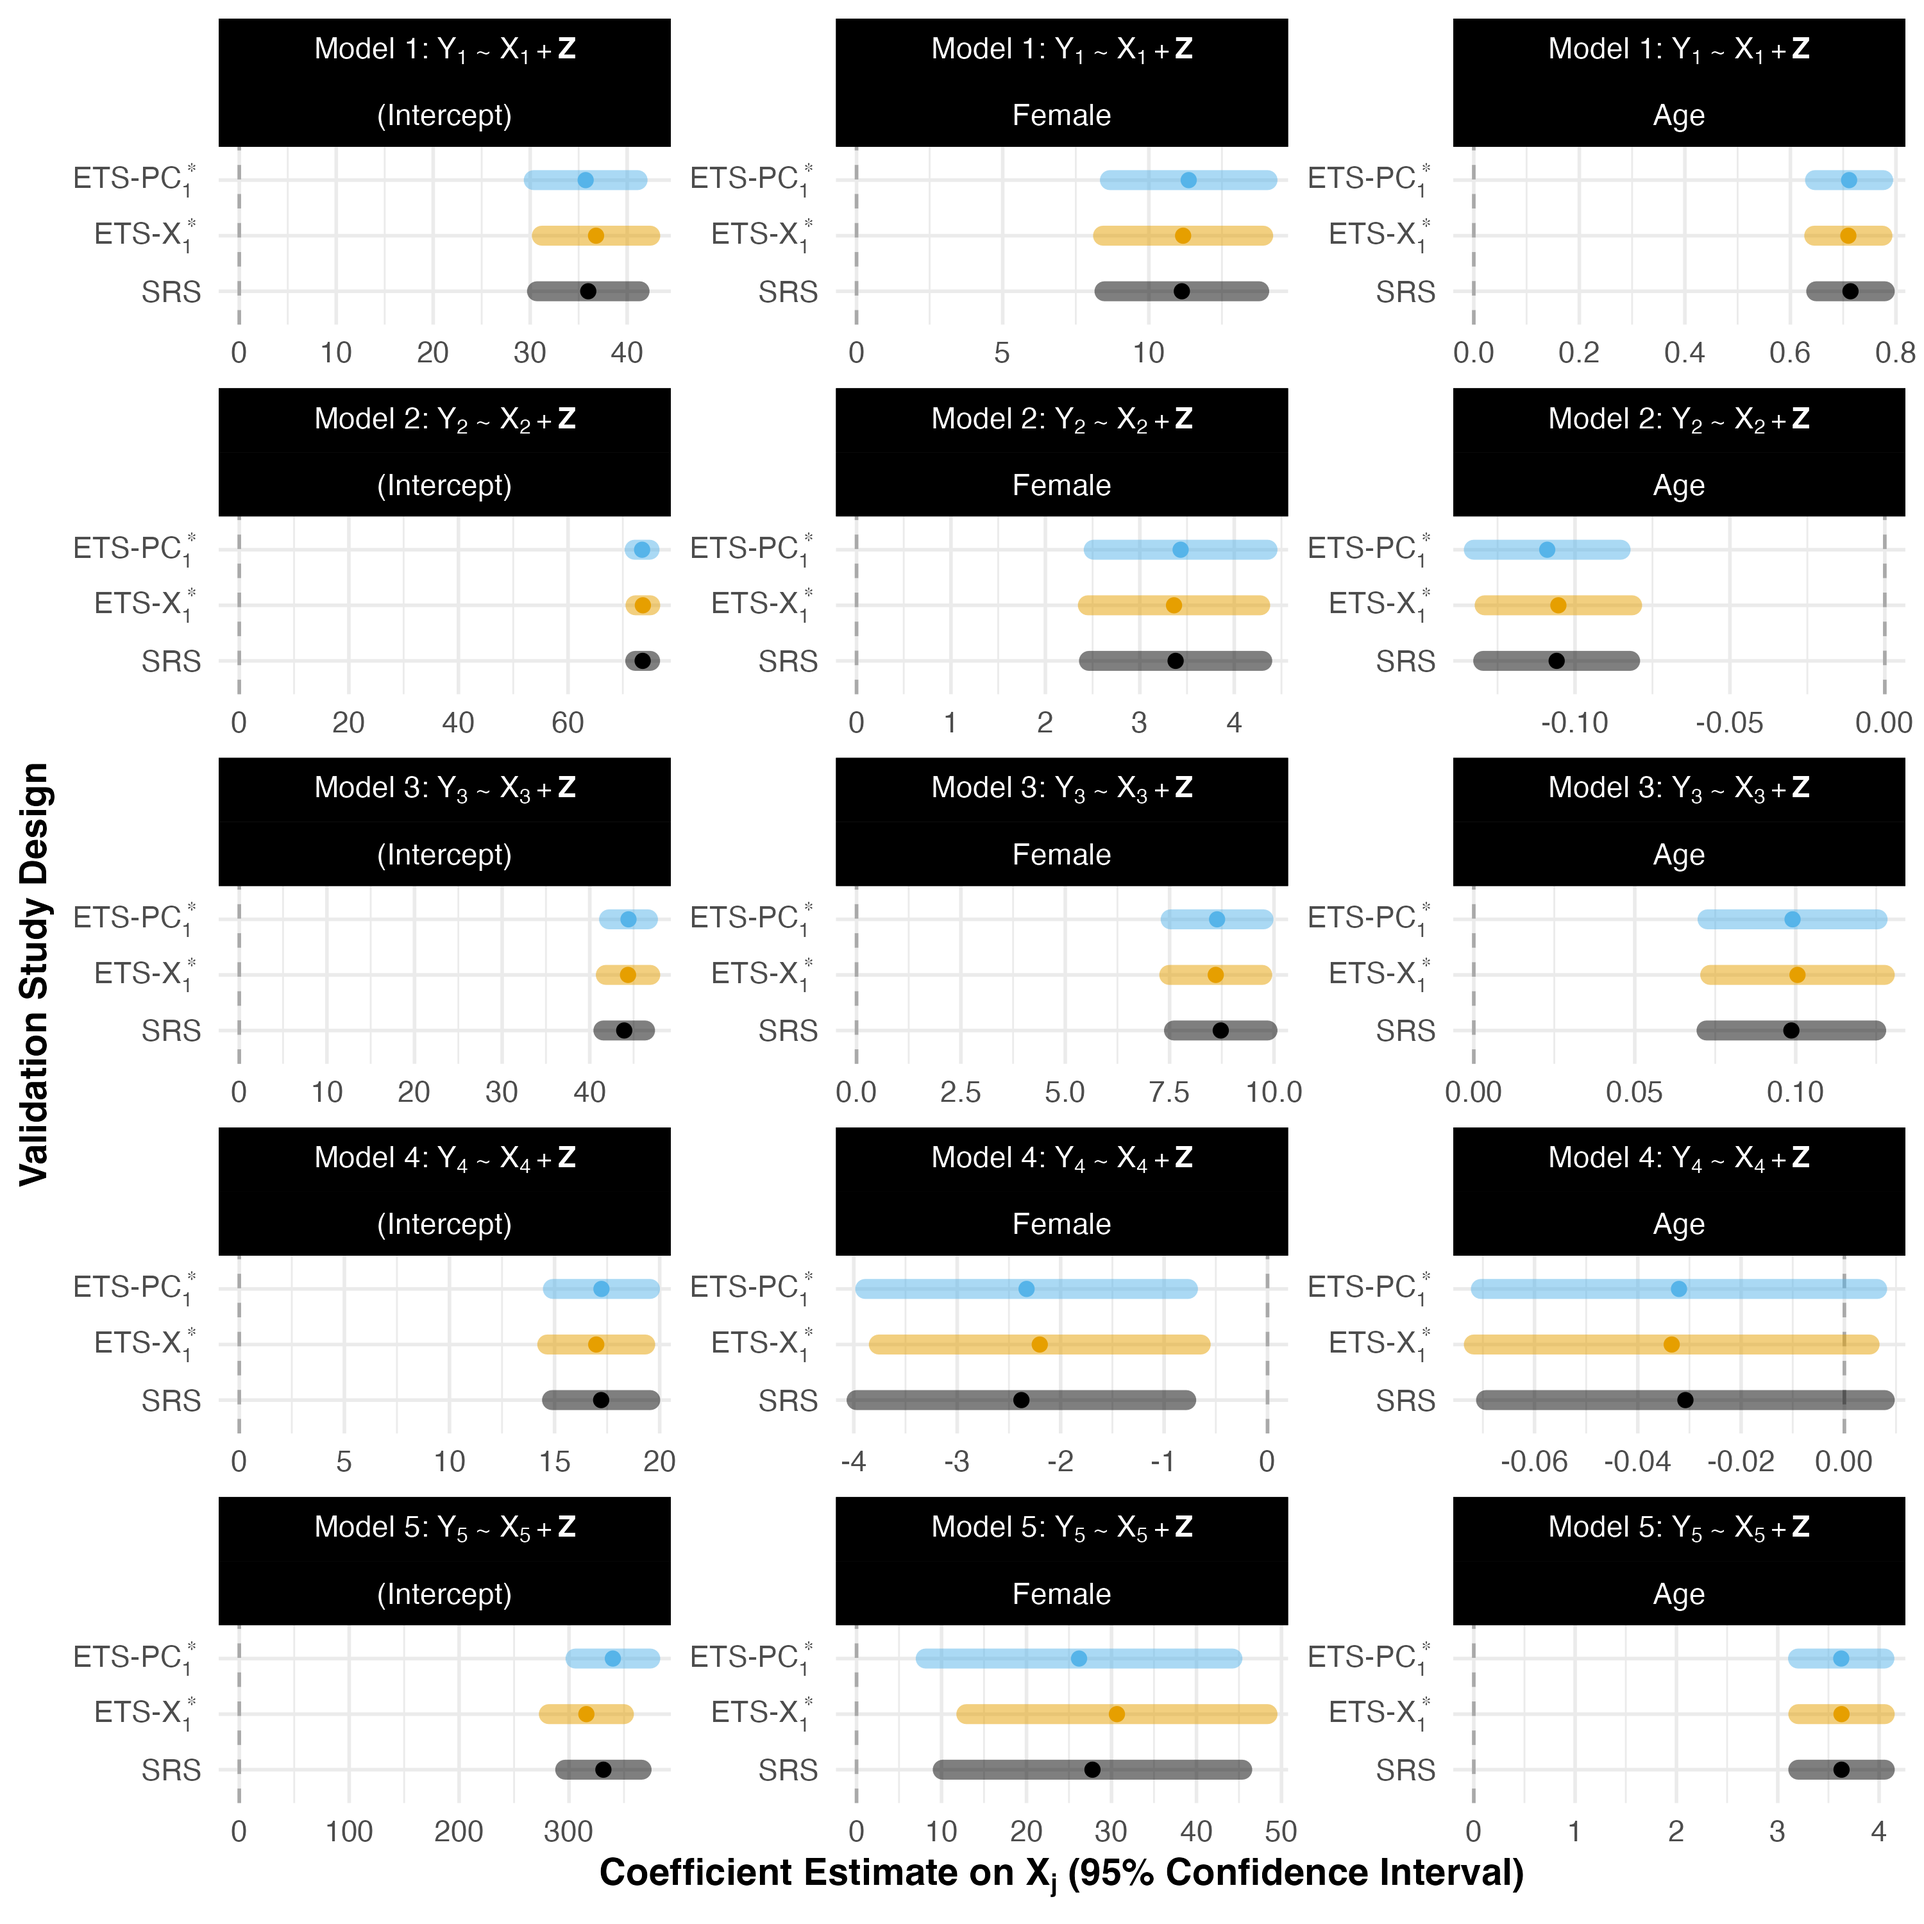
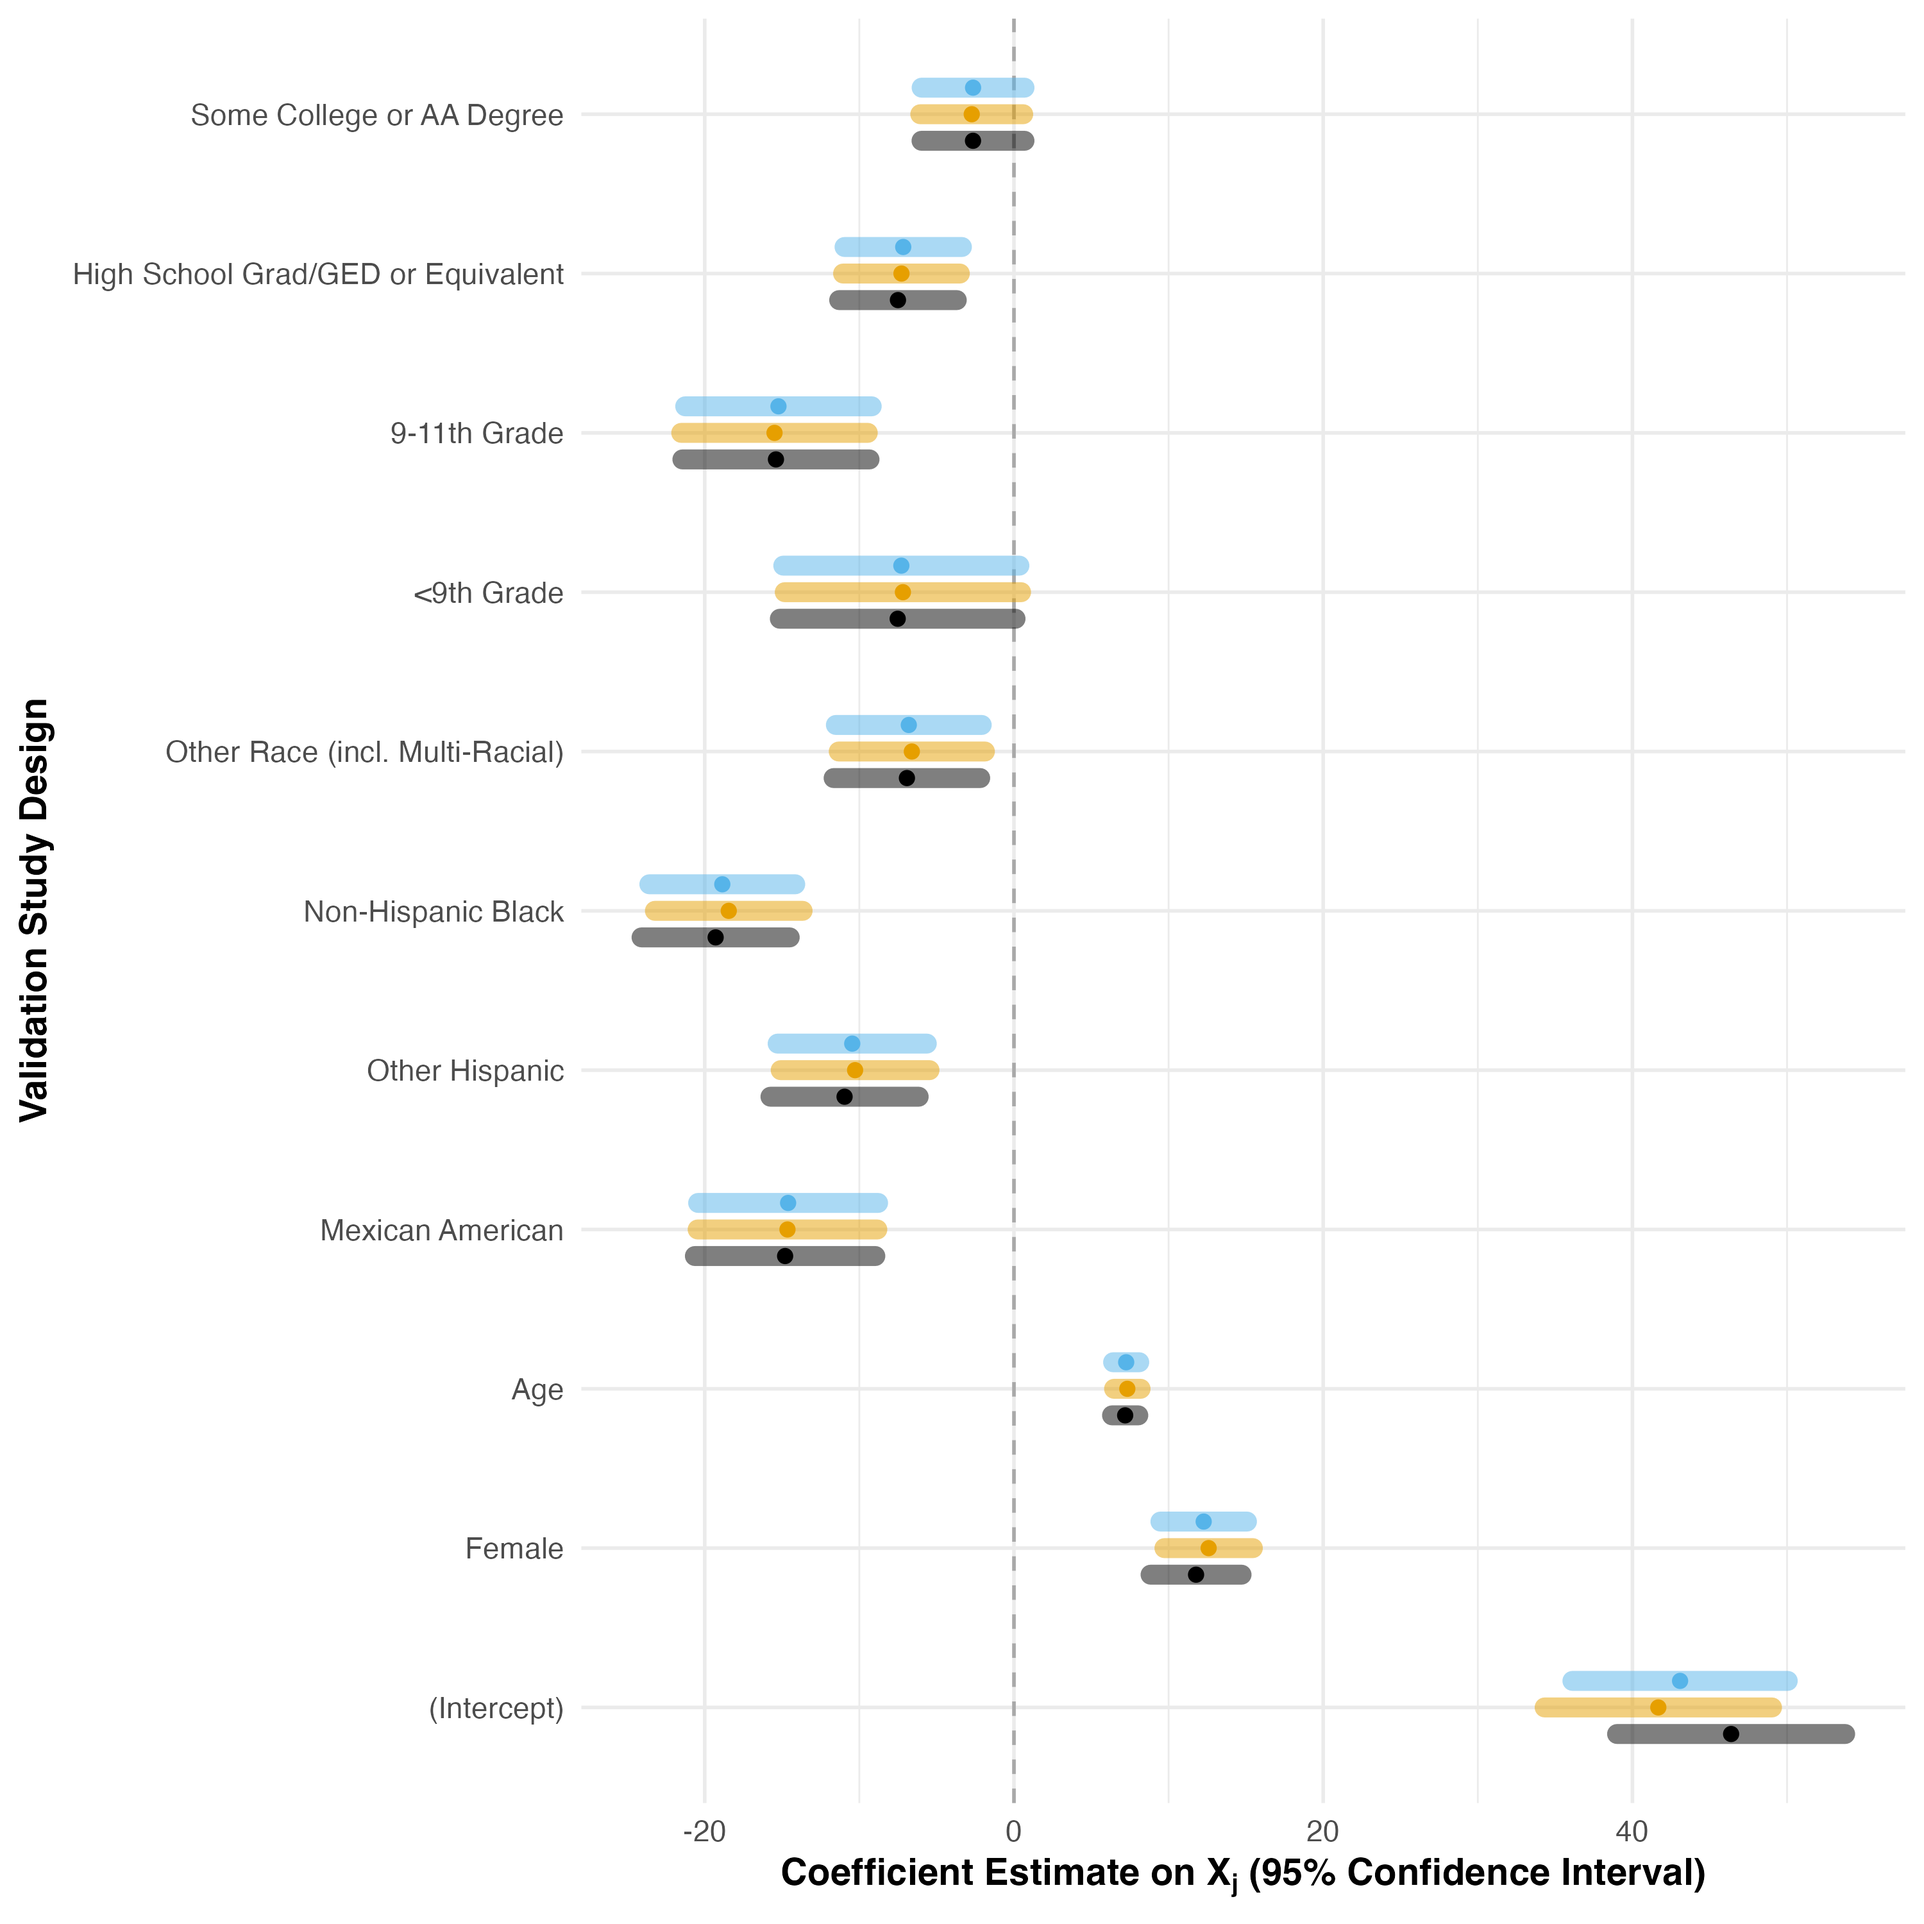
Rescale age (to 10 yr increments)

diff --git a/README.md b/README.md
@@ -49,7 +49,8 @@ nhanes_data = nhanes_data |>
                                       "< 9th Grade", 
                                       "9-11th Grade", 
                                       "High School Grad/GED or Equivalent",
-                                      "Some College or AA Degree"))) |> 
+                                      "Some College or AA Degree")), 
+         RIDAGEYR = RIDAGEYR / 10) |> ## rescale age to 10-year increments
   dplyr::select(SEQN, Y1:XSTAR5, RIAGENDR, RIDAGEYR, RIDRETH1, DMDEDUC2)  
 
 ## Define vector of additional (error-free) exposures
@@ -414,6 +415,8 @@ for (j in 1:5) {
 ```
 
 ## Results
+
+<img src="README_files/figure-gfm/unnamed-chunk-6-1.png" alt=""  />
 
 <img src="README_files/figure-gfm/unnamed-chunk-7-1.png" alt=""  />
 
